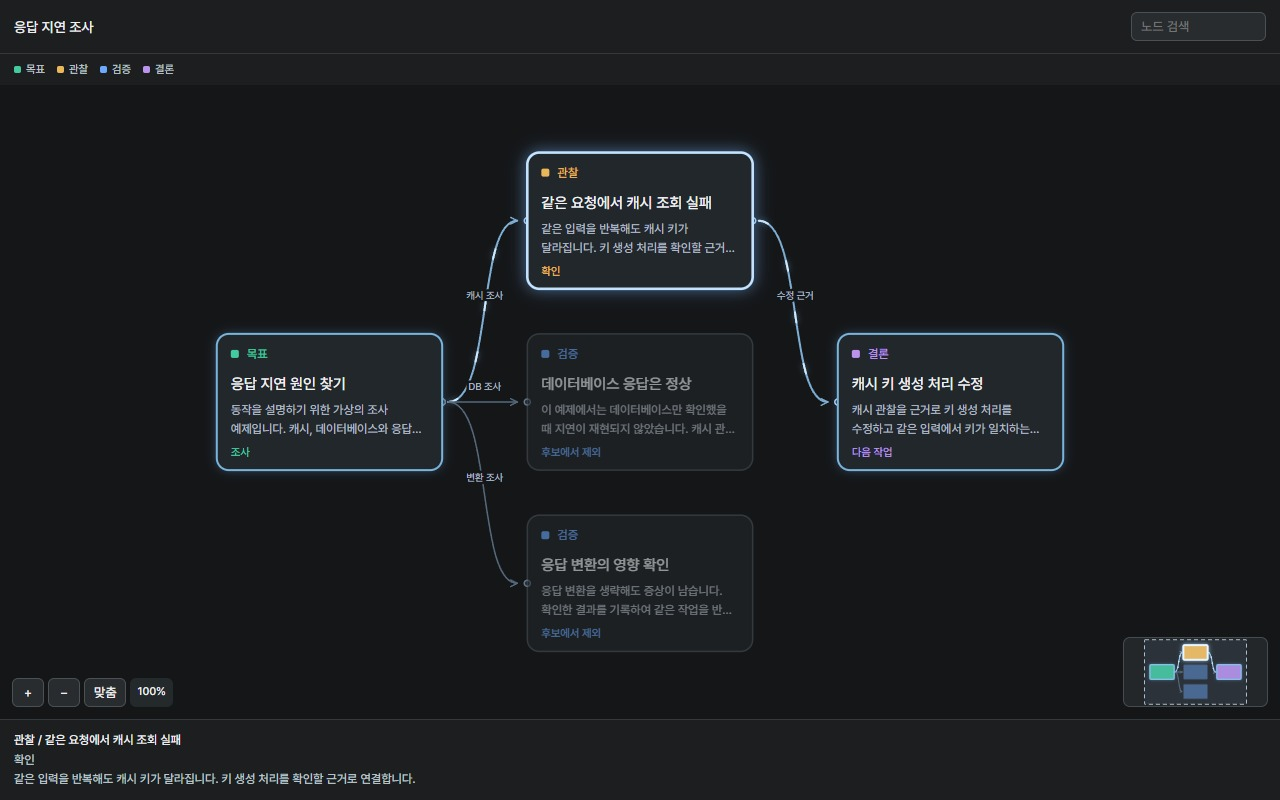
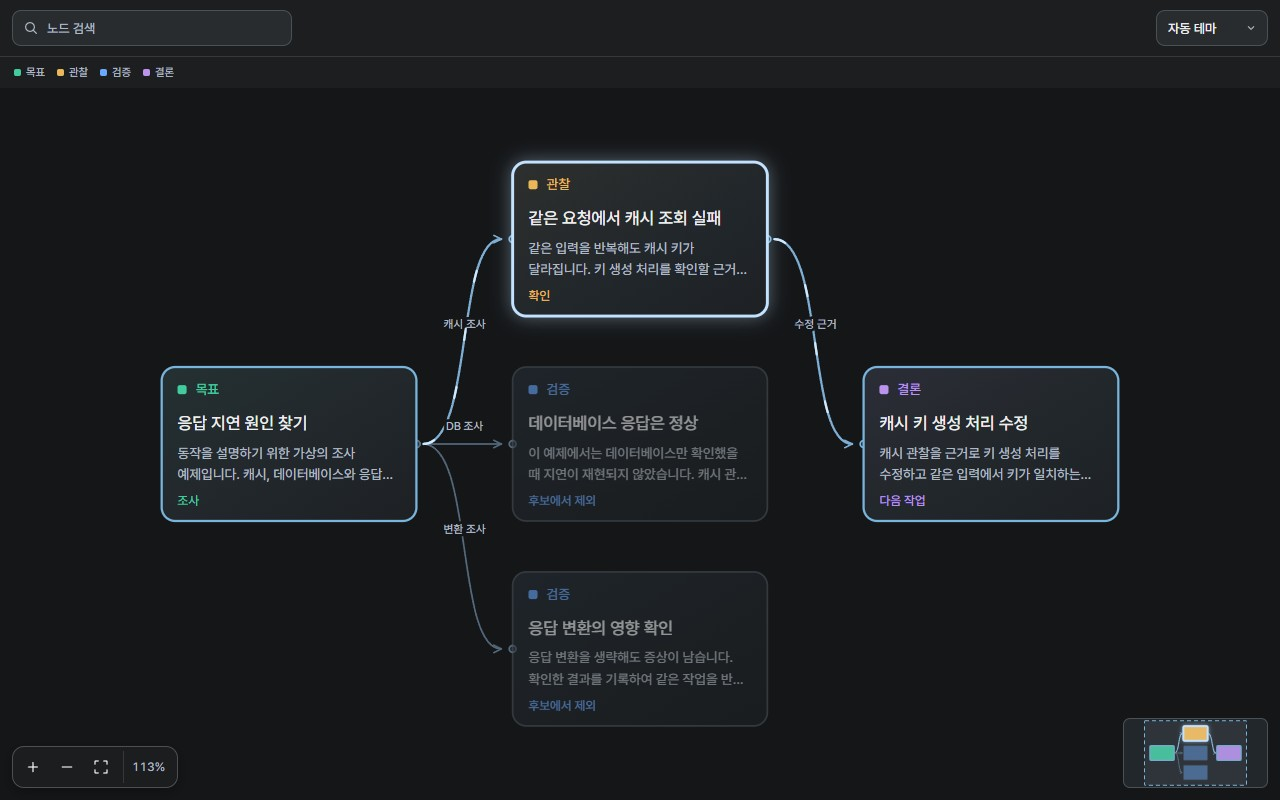
Publish Graph Viewer 1.2.2 from b33c70a

diff --git a/docs/development.md b/docs/development.md
@@ -94,7 +94,7 @@ node scripts/package-mcp.mjs --output '<새 패키지 절대 경로>'
 --data-dir와 --log는 기존 저장 경로나 진단 파일을 명시하는 개발 옵션입니다.
 기본 설치는 도구가 전달한 프로젝트 안에 자료를 저장합니다.
 
-GitHub 저장소 이름이 정해지면 해당 저장소를 Codex marketplace로 등록할 수 있습니다.
+설치 명령은 [README](../README.md#-설치)를 참고하세요.
 등록용 Codex CLI 명령은 그래프 기능의 실행 의존성이 아닙니다.
 배포 절차는 [공식 플러그인 문서](https://developers.openai.com/plugins/build/plugins)를 따릅니다.
 

diff --git a/skills/graph-viewer/references/installation.md b/skills/graph-viewer/references/installation.md
@@ -3,11 +3,10 @@
 GitHub marketplace를 등록하고 플러그인을 설치한다.
 
 ```powershell
-codex plugin marketplace add OWNER/REPO --ref main
+codex plugin marketplace add semisemil/graph-viewer --ref main
 codex plugin add graph-viewer@graph-viewer
 ```
 
-OWNER/REPO는 공개 저장소가 정해지면 실제 경로로 교체한다.
 설치한 플러그인이 표시되지 않으면 Codex를 다시 연다.
 
 Codex는 평소 아이콘으로 실행한다.
